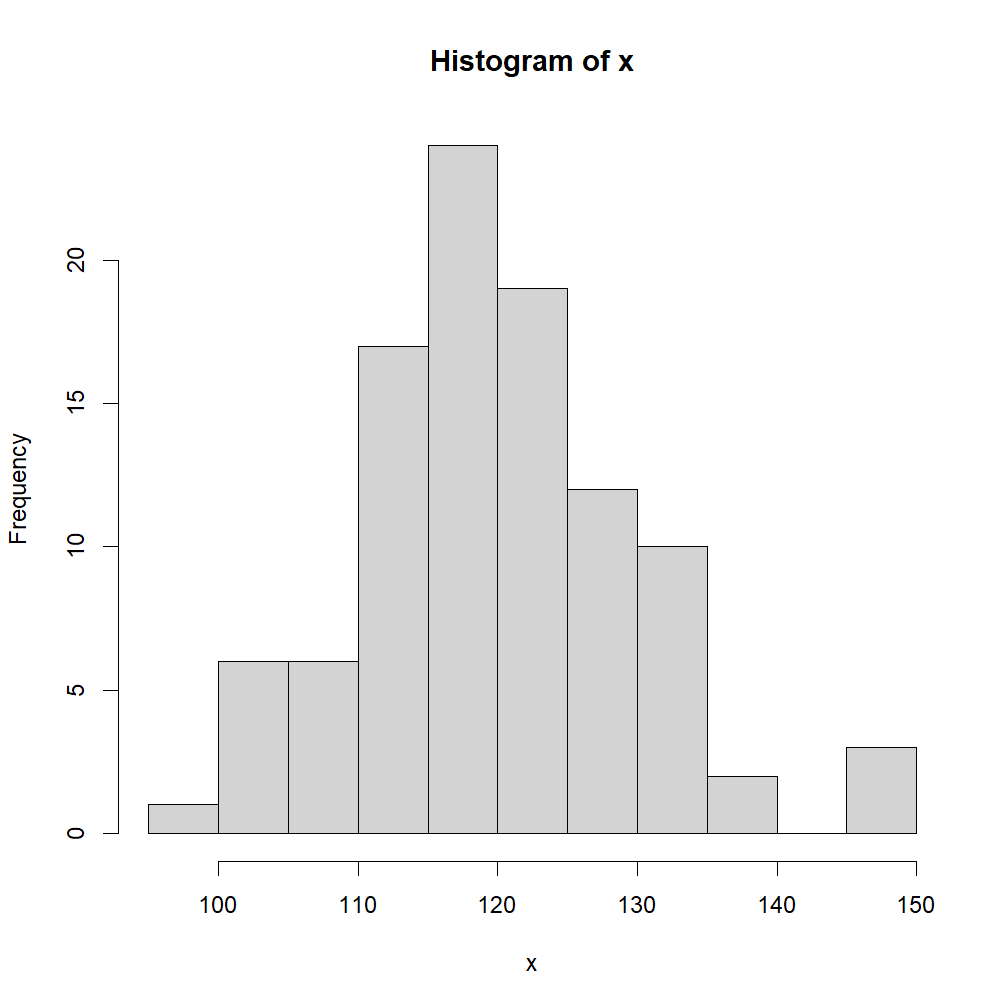
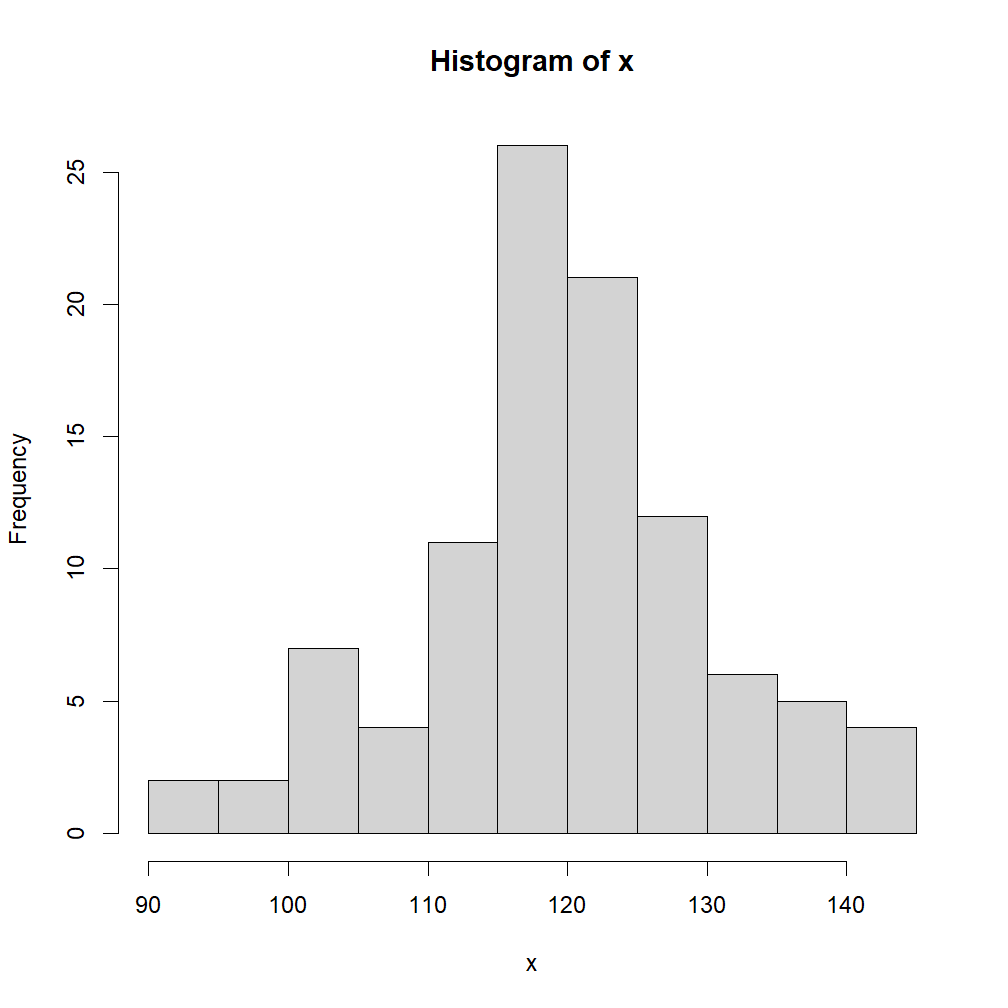
Correcion ggplot2 2

diff --git a/index.html b/index.html
@@ -340,7 +340,7 @@ mean(x)
 ```
 
 ```
-[1] 120.0864
+[1] 119.712
 ```
 
 ```r
@@ -348,7 +348,7 @@ sd(x)
 ```
 
 ```
-[1] 9.684019
+[1] 10.61311
 ```
 
 
@@ -418,7 +418,8 @@ class: center middle inverse
 
 
 ```r
-install.packages('ggplot2') # se instala una única vez en el documento
+# se instala una única vez EN LA CONSOLA
+install.packages('ggplot2') 
 ```
 
 ---
@@ -710,7 +711,7 @@ shapiro.test(x.normal)
 	Shapiro-Wilk normality test
 
 data:  x.normal
-W = 0.89499, p-value = 0.03326
+W = 0.96845, p-value = 0.7219
 ```
 
 
@@ -750,7 +751,7 @@ ic
 ```
 
 ```
-[1]  95.48006 106.22089
+[1]  99.21795 105.54298
 ```
 
 ---
@@ -769,13 +770,13 @@ t.test(x.normal)
 	One Sample t-test
 
 data:  x.normal
-t = 39.305, df = 19, p-value &lt; 2.2e-16
+t = 67.758, df = 19, p-value &lt; 2.2e-16
 alternative hypothesis: true mean is not equal to 0
 95 percent confidence interval:
-  95.48006 106.22089
+  99.21795 105.54298
 sample estimates:
 mean of x 
- 100.8505 
+ 102.3805 
 ```
 
 ---
@@ -792,7 +793,7 @@ ci(x.normal)
 
 ```
   Estimate   CI lower   CI upper Std. Error 
-100.850477  95.480064 106.220890   2.565863 
+102.380462  99.217946 105.542978   1.510979 
 ```
 
 
